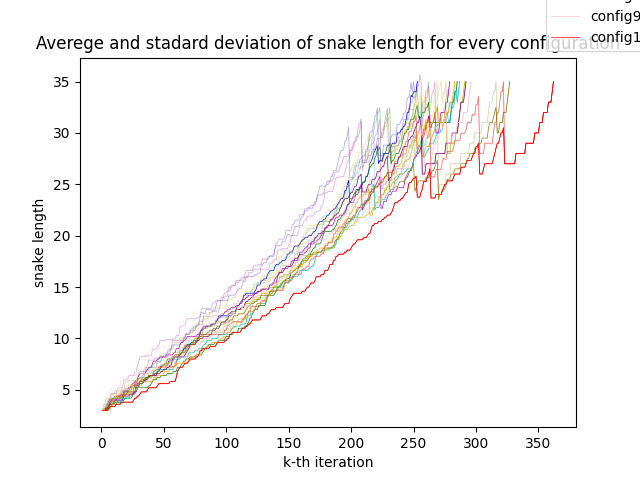
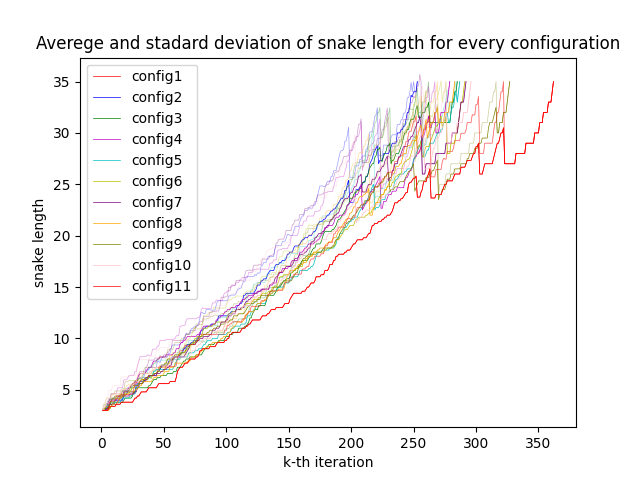
mc

Changed region(s): [[0.125, 0.125, 0.3125, 0.625], [0.8438, 0.0, 1.0, 0.125]]

diff --git a/plot.py b/plot.py
@@ -80,12 +80,12 @@ def plot_iterations_time_different_config(averege_time, std_time):
         x_vectore = np.linspace(1, len(aver), len(aver))
         aver = np.array(aver)
         std = np.array(std)
-        plt.semilogy(x_vectore, aver, label="config{}".format(i), color=color[i], linewidth=0.5)
+        plt.semilogy(x_vectore, aver, label="config{}".format(i+1), color=color[i], linewidth=0.5)
         plt.semilogy(x_vectore, aver+std, alpha=0.2, color=color[i], linewidth=0.5)
         plt.semilogy(x_vectore, aver-std, alpha=0.2, color=color[i], linewidth=0.5)
         i += 1
         
-    plt.legend(bbox_to_anchor=(1.05, 1.0), loc='lower center')
+    plt.legend()
     plt.xlabel("k-th iteration")
     plt.ylabel("log(time [sec])")
     plt.title("Averege and stadard deviation of time for every configuration")
@@ -99,12 +99,12 @@ def plot_iterations_lenght_snake_different_config(averege_length, std_length):
         aver = np.array(aver)
         std = np.array(std)
         x_vectore = np.linspace(1, len(aver), len(aver))
-        plt.plot(x_vectore, aver, label="config{}".format(i), color=color[i], linewidth=0.5)
+        plt.plot(x_vectore, aver, label="config{}".format(i+1), color=color[i], linewidth=0.5)
         plt.plot(x_vectore, aver+std, alpha=0.2, color=color[i], linewidth=0.5)
         plt.plot(x_vectore, aver+std, alpha=0.2, color=color[i], linewidth=0.5)
         i += 1
         
-    plt.legend(bbox_to_anchor=(1.05, 1.0), loc='lower center')
+    plt.legend()
     plt.xlabel("k-th iteration")
     plt.ylabel("snake length")
     plt.title("Averege and stadard deviation of snake length for every configuration")
